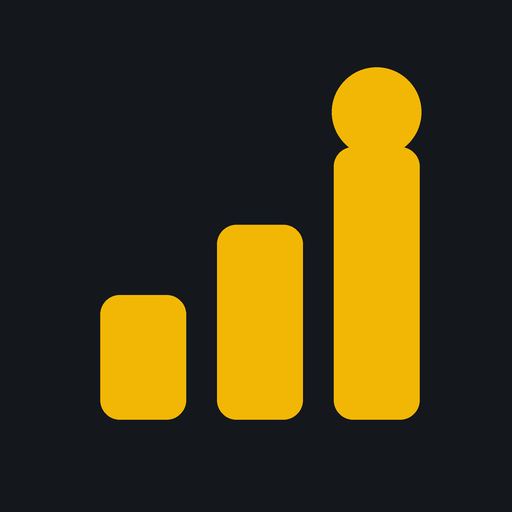
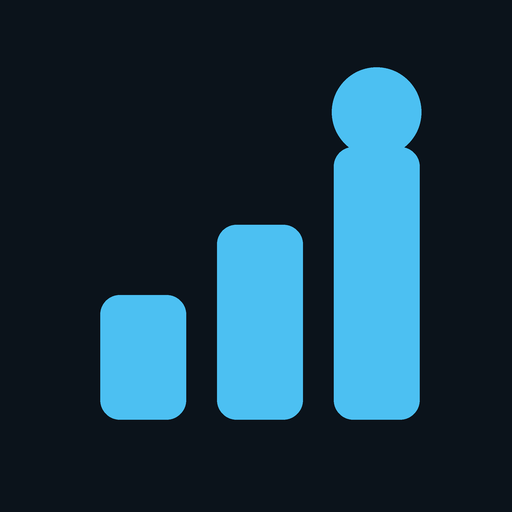
Switch to team light blue theme and add cat background
Light blue is the team accent; red and royal blue stay reserved for alliances.
Adds a faint line-art cat batting at wires behind the content, and recolors the app icons.

Changed region(s): [[0.625, 0.125, 0.8438, 0.8438], [0.4062, 0.4375, 0.5938, 0.8438], [0.1875, 0.5625, 0.375, 0.8438]]

diff --git a/index.html b/index.html
@@ -5,7 +5,7 @@
 <meta name="viewport" content="width=device-width,initial-scale=1,viewport-fit=cover">
 <title>REBUILT Scout</title>
 <meta name="description" content="Scouting app for the FRC 2026 game REBUILT: match and pit scouting, rankings, picklist and pre-match briefs.">
-<meta name="theme-color" content="#14181d">
+<meta name="theme-color" content="#0b131b">
 <meta name="apple-mobile-web-app-capable" content="yes">
 <meta name="apple-mobile-web-app-title" content="Scout">
 <link rel="manifest" href="manifest.webmanifest">
@@ -15,31 +15,36 @@
 <link rel="preconnect" href="https://fonts.gstatic.com" crossorigin>
 <link rel="stylesheet" href="https://fonts.googleapis.com/css2?family=Barlow+Condensed:wght@600;700;800&family=Barlow:wght@400;500;600&family=JetBrains+Mono:wght@500;700&display=swap">
 <style>
-/* Layout: phone-first app shell — sticky top bar, one scrolling view, fixed bottom tab bar. Steel neutrals, FUEL-yellow accent, alliance red/blue as semantic. */
+/* Layout: phone-first app shell — sticky top bar, one scrolling view, fixed bottom tab bar, a line-art cat batting at wires fixed behind the content.
+   Team light blue is the accent; red and royal blue are reserved for alliances. */
 :root{
-  --bg:#e9ecef; --surface:#ffffff; --surface-2:#f4f6f8; --line:#d3d9df; --fg:#14181d; --muted:#5b6672;
-  --accent:#f2b705; --accent-ink:#1a1400; --accent-soft:#fdf1c4;
-  --red:#c8323a; --red-soft:#f8dfe0; --blue:#1f5fbf; --blue-soft:#dce7f8;
+  --bg:#e6f0f7; --surface:#ffffff; --surface-2:#f1f7fb; --line:#cddce8; --fg:#0e1a24; --muted:#536677;
+  --accent:#4cc0f2; --accent-ink:#04263a; --accent-soft:#d9f0fc; --accent-strong:#0b7fbf;
+  --red:#c8323a; --red-soft:#f8dfe0; --blue:#1d4fbf; --blue-soft:#dde5f8;
   --good:#1d8a4e; --good-soft:#d9f0e2; --warn:#b26a00; --warn-soft:#fbe9cc; --bad:#c8323a; --bad-soft:#f8dfe0;
   --s1:#2a78d6; --s2:#eb6834; --s3:#1baf7a; --s4:#eda100;
+  --cat:#0b7fbf; --cat-op:.34;
+  --card:color-mix(in srgb, var(--surface) 80%, transparent);
   --f-display:"Barlow Condensed","Arial Narrow",system-ui,sans-serif;
   --f-body:"Barlow",system-ui,-apple-system,"Segoe UI",sans-serif;
   --f-mono:"JetBrains Mono",ui-monospace,Consolas,monospace;
   --r:10px;
 }
 @media (prefers-color-scheme: dark){:root:not([data-theme="light"]){
-  --bg:#101317; --surface:#181c22; --surface-2:#1f242b; --line:#2c333c; --fg:#e8ecf0; --muted:#97a2ae;
-  --accent:#f5c22b; --accent-ink:#1a1400; --accent-soft:#3a3210;
-  --red:#ff6b72; --red-soft:#3d1c1f; --blue:#6fa2ff; --blue-soft:#18273f;
+  --bg:#0b131b; --surface:#121e29; --surface-2:#182836; --line:#253848; --fg:#e5f0f7; --muted:#90a7b8;
+  --accent:#5ccbf7; --accent-ink:#03202f; --accent-soft:#0f3044; --accent-strong:#82d8fb;
+  --red:#ff6b72; --red-soft:#3d1c1f; --blue:#5b84ff; --blue-soft:#1a2547;
   --good:#4cc782; --good-soft:#163323; --warn:#f0a53a; --warn-soft:#3a2a12; --bad:#ff6b72; --bad-soft:#3d1c1f;
   --s1:#3987e5; --s2:#d95926; --s3:#199e70; --s4:#c98500;
+  --cat:#82d8fb; --cat-op:.26;
   color-scheme:dark}}
 :root[data-theme="dark"]{
-  --bg:#101317; --surface:#181c22; --surface-2:#1f242b; --line:#2c333c; --fg:#e8ecf0; --muted:#97a2ae;
-  --accent:#f5c22b; --accent-ink:#1a1400; --accent-soft:#3a3210;
-  --red:#ff6b72; --red-soft:#3d1c1f; --blue:#6fa2ff; --blue-soft:#18273f;
+  --bg:#0b131b; --surface:#121e29; --surface-2:#182836; --line:#253848; --fg:#e5f0f7; --muted:#90a7b8;
+  --accent:#5ccbf7; --accent-ink:#03202f; --accent-soft:#0f3044; --accent-strong:#82d8fb;
+  --red:#ff6b72; --red-soft:#3d1c1f; --blue:#5b84ff; --blue-soft:#1a2547;
   --good:#4cc782; --good-soft:#163323; --warn:#f0a53a; --warn-soft:#3a2a12; --bad:#ff6b72; --bad-soft:#3d1c1f;
   --s1:#3987e5; --s2:#d95926; --s3:#199e70; --s4:#c98500;
+  --cat:#82d8fb; --cat-op:.26;
   color-scheme:dark}
 *{box-sizing:border-box}
 html,body{background:var(--bg);color:var(--fg)}
@@ -72,11 +77,16 @@ p{margin:0}
 .nav button{border:0;background:none;padding:6px 2px;border-radius:8px;display:flex;flex-direction:column;align-items:center;gap:2px;font-family:var(--f-display);font-weight:700;font-size:14px;letter-spacing:.04em;text-transform:uppercase;color:var(--muted);cursor:pointer}
 .nav button svg{width:22px;height:22px}
 .nav button[aria-current="page"]{color:var(--fg);background:var(--accent-soft)}
-.nav button[aria-current="page"] svg{color:var(--accent)}
+.nav button[aria-current="page"] svg{color:var(--accent-strong)}
 
-main{padding-block:16px 24px}
+main{padding-block:16px 24px;position:relative;z-index:1}
+/* background cat: fixed, faint, never intercepts taps */
+.catbg{position:fixed;right:-24px;bottom:calc(64px + env(safe-area-inset-bottom,0px));width:min(620px,112vw);z-index:0;pointer-events:none;color:var(--cat);opacity:var(--cat-op)}
+.catbg svg{display:block;width:100%;height:auto}
+.catbg .w{fill:none;stroke-width:4;stroke-linecap:round;stroke-linejoin:round}
+.catbg .wr{stroke:var(--red)} .catbg .wb{stroke:var(--blue)}
 .view{display:grid;gap:14px}
-.sec{background:var(--surface);border:1px solid var(--line);border-radius:var(--r);padding:14px;display:grid;gap:12px;min-width:0}
+.sec{background:var(--card);border:1px solid var(--line);border-radius:var(--r);padding:14px;display:grid;gap:12px;min-width:0}
 .sec-h{display:flex;align-items:center;gap:10px;justify-content:space-between;flex-wrap:wrap}
 .sec-h h2{font-size:22px;font-weight:800;text-transform:uppercase;letter-spacing:.03em}
 .sec-h .tag{font-family:var(--f-mono);font-size:11px;color:var(--muted);text-transform:uppercase;letter-spacing:.08em}
@@ -92,7 +102,7 @@ textarea{min-height:84px;resize:vertical}
 code{font-family:var(--f-mono);font-size:13px;background:var(--surface-2);padding:1px 5px;border-radius:4px;overflow-wrap:anywhere}
 
 /* sub tabs */
-.subnav{display:flex;gap:4px;background:var(--surface);border:1px solid var(--line);border-radius:999px;padding:4px;overflow-x:auto}
+.subnav{display:flex;gap:4px;background:var(--card);border:1px solid var(--line);border-radius:999px;padding:4px;overflow-x:auto}
 .subnav button{flex:1 0 auto;border:0;background:none;border-radius:999px;padding:8px 14px;font-family:var(--f-display);font-weight:700;font-size:16px;letter-spacing:.04em;text-transform:uppercase;color:var(--muted);cursor:pointer;white-space:nowrap}
 .subnav button[aria-pressed="true"]{background:var(--fg);color:var(--bg)}
 
@@ -141,12 +151,12 @@ code{font-family:var(--f-mono);font-size:13px;background:var(--surface-2);paddin
 .timer .bar{flex:1 1 100%;height:6px;background:color-mix(in srgb,var(--bg) 25%,transparent);border-radius:3px;overflow:hidden;display:flex}
 .timer .bar i{display:block;height:100%;background:var(--accent)}
 .timer .btn{margin-left:auto;background:var(--accent);color:var(--accent-ink);border:0}
-.assign{display:flex;align-items:center;gap:12px;flex-wrap:wrap;background:var(--accent-soft);border:1px solid var(--accent);border-radius:var(--r);padding:10px 14px}
+.assign{display:flex;align-items:center;gap:12px;flex-wrap:wrap;background:var(--accent-soft);border:1px solid var(--accent-strong);border-radius:var(--r);padding:10px 14px}
 .assign .big{font-family:var(--f-display);font-size:22px;font-weight:800;text-transform:uppercase;letter-spacing:.03em}
 .assign .btn{margin-left:auto}
 
 /* tables */
-.tw{overflow-x:auto;border:1px solid var(--line);border-radius:var(--r);background:var(--surface)}
+.tw{overflow-x:auto;border:1px solid var(--line);border-radius:var(--r);background:var(--card)}
 table{border-collapse:collapse;width:100%;font-size:14px}
 th,td{padding:9px 10px;text-align:right;white-space:nowrap;border-bottom:1px solid var(--line)}
 th{font-family:var(--f-display);font-size:14px;text-transform:uppercase;letter-spacing:.05em;color:var(--muted);background:var(--surface-2);user-select:none}
@@ -176,7 +186,7 @@ tr.ours td{background:var(--accent-soft)}
 .ph-head{display:flex;align-items:flex-start;gap:12px}
 .ph-head .big{font-family:var(--f-mono);font-size:40px;font-weight:700;line-height:1}
 .stats{display:grid;grid-template-columns:repeat(auto-fit,minmax(110px,1fr));gap:8px}
-.stat{background:var(--surface);border:1px solid var(--line);border-radius:8px;padding:10px}
+.stat{background:var(--card);border:1px solid var(--line);border-radius:8px;padding:10px}
 .stat .k{font-size:12px;color:var(--muted);font-weight:600;text-transform:uppercase;letter-spacing:.05em}
 .stat .v{font-family:var(--f-mono);font-size:22px;font-weight:700}
 .bars{display:grid;gap:8px}
@@ -184,7 +194,7 @@ tr.ours td{background:var(--accent-soft)}
 .barrow .track{height:10px;background:var(--surface-2);border:1px solid var(--line);border-radius:5px;overflow:hidden}
 .barrow .track i{display:block;height:100%;background:var(--accent)}
 .notes{display:grid;gap:8px}
-.note{background:var(--surface);border:1px solid var(--line);border-radius:8px;padding:10px 12px;display:grid;gap:4px}
+.note{background:var(--card);border:1px solid var(--line);border-radius:8px;padding:10px 12px;display:grid;gap:4px}
 .note.weakness{border-left:4px solid var(--bad)}
 .note.strength{border-left:4px solid var(--good)}
 .note.strategy{border-left:4px solid var(--blue)}
@@ -213,7 +223,7 @@ tr.ours td{background:var(--accent-soft)}
 .ahead h3{font-size:22px;text-transform:uppercase;letter-spacing:.04em}
 .ahead.red h3{color:var(--red)} .ahead.blue h3{color:var(--blue)}
 .ahead .pts{font-family:var(--f-mono);font-size:30px;font-weight:700}
-.tcard{background:var(--surface);border:1px solid var(--line);border-radius:var(--r);padding:12px;display:grid;gap:8px;cursor:pointer;min-width:0}
+.tcard{background:var(--card);border:1px solid var(--line);border-radius:var(--r);padding:12px;display:grid;gap:8px;cursor:pointer;min-width:0}
 .tcard:hover{border-color:var(--muted)}
 .tcard.ours{border:2px solid var(--accent)}
 .tcard .tt{display:flex;align-items:baseline;gap:8px;flex-wrap:wrap}
@@ -223,7 +233,7 @@ tr.ours td{background:var(--accent-soft)}
 
 /* picklist */
 .pl{display:grid;gap:6px;padding:0;margin:0;list-style:none}
-.pl li{display:flex;align-items:center;gap:10px;background:var(--surface);border:1px solid var(--line);border-radius:8px;padding:8px 10px;flex-wrap:wrap}
+.pl li{display:flex;align-items:center;gap:10px;background:var(--card);border:1px solid var(--line);border-radius:8px;padding:8px 10px;flex-wrap:wrap}
 .pl li .pos{font-family:var(--f-display);font-weight:800;font-size:20px;width:30px}
 .pl li .info{flex:1;min-width:140px}
 .pl li.dnp{opacity:.6}
@@ -256,6 +266,44 @@ details summary{cursor:pointer;font-weight:600}
 </style>
 </head>
 <body>
+<div class="catbg" aria-hidden="true">
+  <svg viewBox="0 0 600 360" xmlns="http://www.w3.org/2000/svg">
+    <!-- dangling wires the cat is batting at -->
+    <path class="w wr" d="M262 -10 C268 50 236 92 262 128 C280 152 262 166 274 176"/>
+    <g class="w wr" transform="translate(274 176) rotate(35)"><rect x="-8" y="0" width="16" height="22" rx="3"/><path d="M-4 22 L-4 30 M4 22 L4 30"/></g>
+    <path class="w wb" d="M284 -10 C292 40 270 70 300 100 C330 130 302 148 318 160"/>
+    <circle class="w wb" cx="320" cy="163" r="4"/>
+    <!-- tangle on the floor -->
+    <path class="w wb" d="M30 341 C70 300 120 360 100 330 C80 300 160 290 170 330 C180 365 240 300 250 338 C256 356 300 352 330 341"/>
+    <path class="w wr" d="M40 341 C90 320 110 370 140 336 C165 308 205 320 200 343 C196 360 260 318 290 345"/>
+    <rect class="w wr" x="22" y="328" width="18" height="14" rx="2"/>
+    <g class="w" stroke="currentColor">
+      <path d="M20 342 L580 342" stroke-width="2" stroke-dasharray="2 9"/>
+      <!-- head -->
+      <path d="M338 182 C332 160 338 140 348 130 L343 92 L372 122 C380 120 390 120 398 122 L422 90 L424 132 C432 148 432 172 422 188 C408 208 356 210 338 182 Z"/>
+      <path d="M350 122 L347 104 L363 119 M408 120 L418 102 L419 124" stroke-width="2.5"/>
+      <ellipse cx="364" cy="160" rx="9" ry="11"/><ellipse cx="400" cy="160" rx="9" ry="11"/>
+      <path d="M382 182 Q382 190 374 190 M382 182 Q382 190 390 190"/>
+      <path d="M350 180 L318 172 M350 186 L316 188 M414 180 L446 172 M414 186 L448 188" stroke-width="2.5"/>
+      <!-- body, legs, tail -->
+      <path d="M352 203 C332 228 326 276 336 340"/>
+      <path d="M415 200 C468 212 498 268 484 318 C478 338 456 342 432 341"/>
+      <path d="M474 300 C454 286 428 296 426 341"/>
+      <path d="M366 262 C366 290 364 318 364 341 M336 341 C338 333 362 333 366 341 M366 341 L432 341"/>
+      <path d="M349 228 C330 214 314 200 302 186 M342 250 C320 236 302 222 290 206"/>
+      <circle cx="292" cy="192" r="13"/>
+      <path d="M282 184 L279 180 M290 180 L289 175 M299 182 L301 178" stroke-width="2.5"/>
+      <path d="M482 322 C530 330 552 292 530 268 C516 254 500 266 510 280"/>
+      <!-- a fuel ball it's ignoring -->
+      <circle cx="562" cy="327" r="14"/><path d="M552 320 Q562 327 572 320 M554 334 Q562 330 570 334" stroke-width="2"/>
+    </g>
+    <g fill="currentColor">
+      <circle cx="360" cy="155" r="4"/><circle cx="396" cy="155" r="4"/>
+      <path d="M377 176 L387 176 L382 182 Z"/>
+    </g>
+  </svg>
+</div>
+
 <header class="top">
   <div class="wrap">
     <div class="brand"><h1><b>REBUILT</b> Scout</h1></div>

diff --git a/sw.js b/sw.js
@@ -1,5 +1,5 @@
 // Offline support: the app shell and its libraries are cached so the app opens with no internet.
-const V = "rebuilt-scout-v2";
+const V = "rebuilt-scout-v3";
 const SHELL = ["./", "./index.html", "./config.js", "./manifest.webmanifest", "./icon.svg", "./icon-192.png", "./icon-512.png"];
 const CDN = ["cdn.jsdelivr.net", "fonts.googleapis.com", "fonts.gstatic.com"];
 
